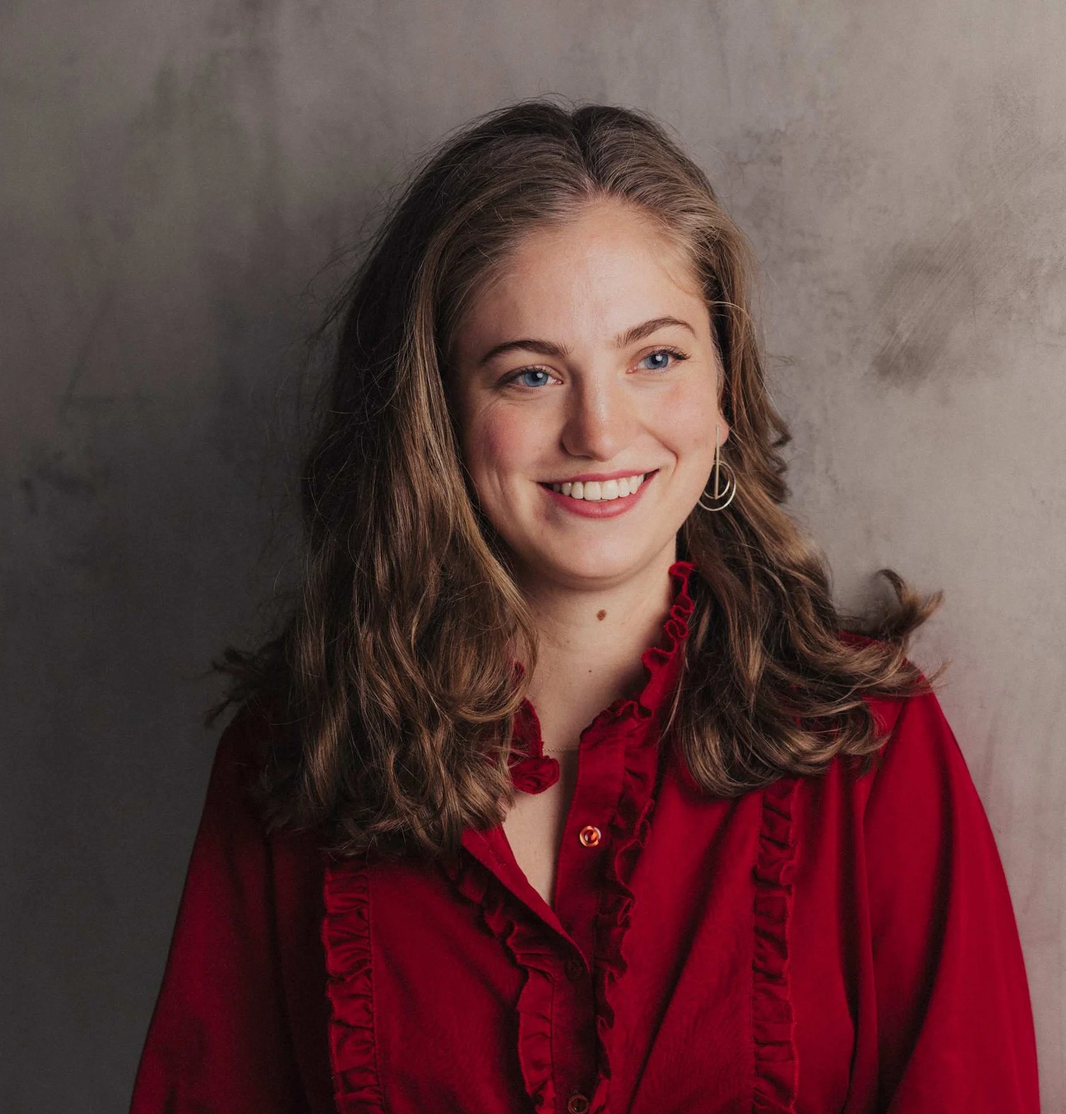
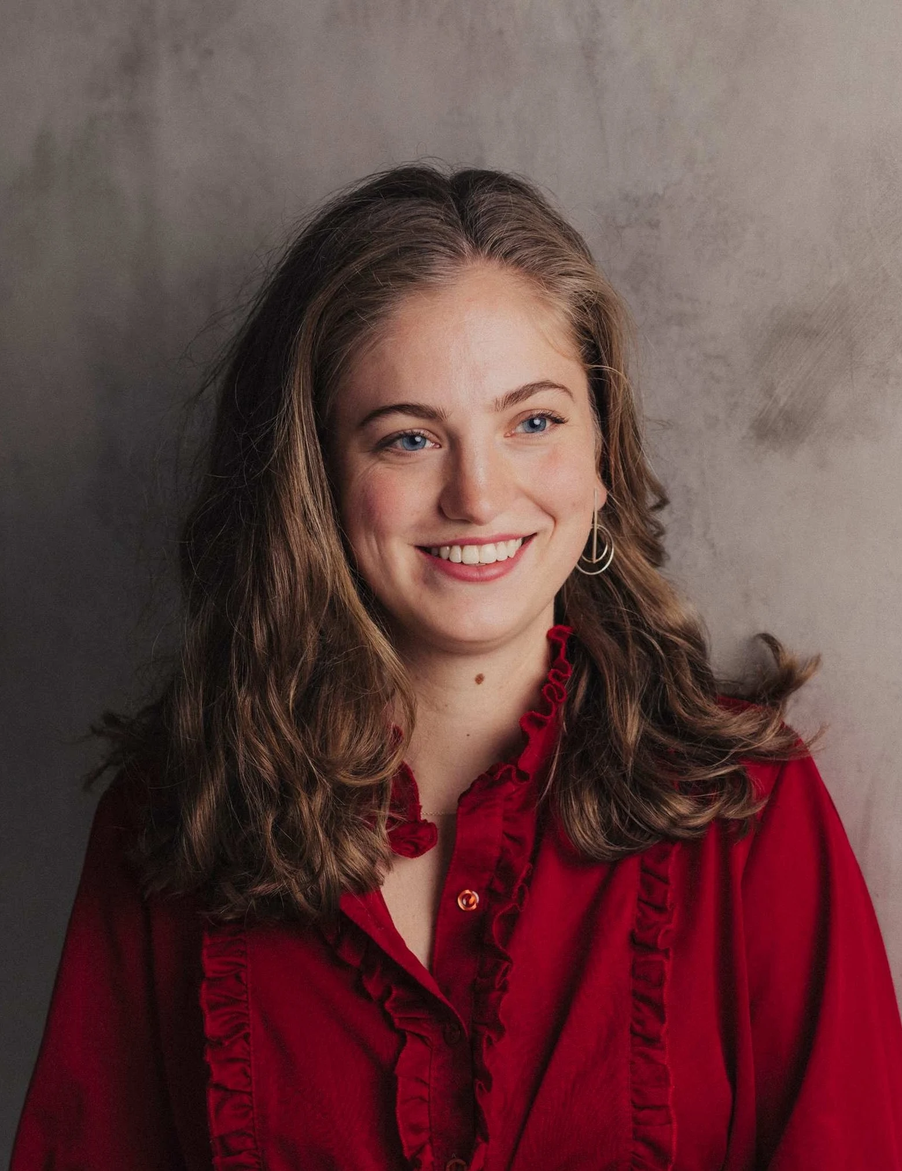
update

diff --git a/index.html b/index.html
@@ -34,7 +34,7 @@
 
 			<div id="wrapper" class="divided">
 
-					<section class="banner style1 orient-left content-align-left image-position-right fullscreen onload-image-fade-in onload-content-fade-right">
+					<section class="banner style5 content-align-left image-position-center fullscreen onload-image-fade-in onload-content-fade-right" id="home">
 						<div class="content">
 							<header>
 								<h1>Femke Hulsman</h1>
@@ -45,17 +45,41 @@
 								</p>
 							</header>
 
-							<p>Mezzosopraan Femke Hulsman rondde recent haar master af aan de <strong>Dutch National Opera Academy (2025)</strong>. Ze speelde daar afgelopen jaar in verschillende opera's, zoals Haydns <strong>La fedeltà premiata (Celia)</strong> met het Orkest van de 18e eeuw, en Ullmanns <strong>Der Kaiser von Atlantis (Der Trommler)</strong> met het Residentie Orkest. Eerder zong ze in Monteverdi's <strong>Il ritorno d'Ulisse in patria (Anfinomo)</strong>, Rossini's <strong>L'occasione fa il ladro (Ernestina)</strong> en Susa's <strong>Transformations (Singer #3)</strong>. Ook vertolkte ze de rol van <strong>Sir Taki</strong> en <strong>Heggenschaarhuzaar</strong> in <strong>Operetta Land</strong> van Steef de Jong bij De Nationale Opera. In 2024 zong ze de hoofdrol <strong>Estelle</strong> in de wereldpremière van de opera <strong>The Master's Voice</strong> van Peter Kooreman. </p>
-							<p>Naast operarepertoire zingt Femke graag liederen en oratoria. Ze heeft onder andere de volksliederen van Berio opgevoerd op het kamermuziekfestival van Tenerife, en de <strong>Liebeslieder Waltzes</strong> van Brahms gezongen in de kleine zaal van het Concertgebouw.</p>
-							<p>Femke heeft een bachelor klassiek zang aan het Conservatorium van Amsterdam afgerond en een bachelor psychologie aan de Universiteit van Utrecht. Femke volgt les bij Sasja Hunnego.</p>
-							
 							<div class="actions stacked">
-								<a href="#masterclass" class="button small wide smooth-scroll-middle">Highlights</a>
-								<a href="#videos" class="button small smooth-scroll-middle">Video's</a>
+								<a href="#bio" class="button small wide smooth-scroll-middle">Biografie</a>
+								<a href="#masterclass" class="button small smooth-scroll-middle">Video's</a>
 								<a href="#gallery" class="button small smooth-scroll-middle">Gallerij</a>
 								<a href="#agenda" class="button small smooth-scroll-middle">Agenda</a>
 								<a href="#contact" class="button small smooth-scroll-middle">Contact</a>
 							</div>
+
+						</div>
+						<div class="image">
+							<img src="images/fulls/protrait7.webp" alt=""/>
+						</div>
+					</section>
+					
+					<section class="banner style1 orient-left content-align-left image-position-right fullscreen onload-image-fade-in onload-content-fade-right" id="bio">
+						<div class="content">
+							<header>
+								<h1>Femke Hulsman</h1>
+								<p>Mezzosopraan&nbsp;
+									<a href="mailto:femkehulsman@hotmail.com" class="icon style1 fa-envelope"><span class="label">Email</span></a>
+									<a href="https://www.instagram.com/femke.hulsman/" class="icon brands style1 fa-instagram"><span class="label">Instagram</span></a>
+									<a href="https://www.facebook.com/profile.php?id=100009198058670" class="icon brands style1 fa-facebook-f"><span class="label">Facebook</span></a>
+								</p>
+							</header>
+
+							<div class="actions stacked">
+								<a href="#videos" class="button small wide smooth-scroll-middle">Video's</a>
+								<a href="#gallery" class="button small smooth-scroll-middle">Gallerij</a>
+								<a href="#agenda" class="button small smooth-scroll-middle">Agenda</a>
+								<a href="#contact" class="button small smooth-scroll-middle">Contact</a>
+							</div>
+
+							<p>Mezzosopraan Femke Hulsman rondde recent haar master af aan de <strong>Dutch National Opera Academy (2025)</strong>. Ze speelde daar afgelopen jaar in verschillende opera's, zoals Haydns <strong>La fedeltà premiata (Celia)</strong> met het Orkest van de 18e eeuw, en Ullmanns <strong>Der Kaiser von Atlantis (Der Trommler)</strong> met het Residentie Orkest. Eerder zong ze in Monteverdi's <strong>Il ritorno d'Ulisse in patria (Anfinomo)</strong>, Rossini's <strong>L'occasione fa il ladro (Ernestina)</strong> en Susa's <strong>Transformations (Singer #3)</strong>. Ook vertolkte ze de rol van <strong>Sir Taki</strong> en <strong>Heggenschaarhuzaar</strong> in <strong>Operetta Land</strong> van Steef de Jong bij De Nationale Opera. In 2024 zong ze de hoofdrol <strong>Estelle</strong> in de wereldpremière van de opera <strong>The Master's Voice</strong> van Peter Kooreman. </p>
+							<p>Naast operarepertoire zingt Femke graag liederen en oratoria. Ze heeft onder andere de volksliederen van Berio opgevoerd op het kamermuziekfestival van Tenerife, en de <strong>Liebeslieder Waltzes</strong> van Brahms gezongen in de kleine zaal van het Concertgebouw.</p>
+							<p>Femke heeft een bachelor klassiek zang aan het Conservatorium van Amsterdam afgerond en een bachelor psychologie aan de Universiteit van Utrecht. Femke volgt les bij Sasja Hunnego.</p>
 
 						</div>
 						<div class="image">
@@ -65,11 +89,10 @@
 
 					<section class="spotlight style1 orient-right content-align-left image-position-center onscroll-image-fade-in" id="masterclass">
 						<div class="content">
-							<h2>Masterclass Thomas Oliemans &amp; Femke Hulsman &ndash; J'ai Deux Amants (Messager) | Podium Klassiek</h2>
-							<!-- <p>Lorem ipsum dolor sit amet, consectetur adipiscing elit. Morbi id ante sed ex pharetra lacinia sit amet vel massa. Donec facilisis laoreet nulla eu bibendum. Donec ut ex risus. Fusce lorem lectus, pharetra pretium massa et, hendrerit vestibulum odio lorem ipsum dolor sit amet.</p> -->
-							<ul class="actions stacked">
-								<li><a href="#flammenauge" class="button">Volgende Video</a></li>
-							</ul>
+							<h3>Masterclass Thomas Oliemans &amp; Femke Hulsman &ndash; J'ai Deux Amants (Messager) | Podium Klassiek</h3>
+							<div class="actions stacked">
+								<a href="#flammenauge" class="button small wide smooth-scroll-middle">Volgende Video</a>
+							</div>
 						</div>
 						<div class="image">
 							<iframe width="100%" height="100%" 
@@ -83,11 +106,10 @@
 
 					<section class="spotlight style1 orient-left content-align-left image-position-center onscroll-image-fade-in" id="flammenauge">
 						<div class="content">
-							<h2>Dutch National Opera Academy &ndash; Flammenauge, Dunkles Haar (Johannes Brahms) | Podium Klassiek</h2>
-							<!-- <p>Lorem ipsum dolor sit amet, consectetur adipiscing elit. Morbi id ante sed ex pharetra lacinia sit amet vel massa. Donec facilisis laoreet nulla eu bibendum. Donec ut ex risus. Fusce lorem lectus, pharetra pretium massa et, hendrerit vestibulum odio lorem ipsum dolor sit amet.</p> -->
-							<ul class="actions stacked">
-								<li><a href="#mastersvoice" class="button">Volgende Video</a></li>
-							</ul>
+							<h3>Dutch National Opera Academy &ndash; Flammenauge, Dunkles Haar (Johannes Brahms) | Podium Klassiek</h3>
+							<div class="actions stacked">
+								<a href="#mastersvoice" class="button small wide smooth-scroll-middle">Volgende Video</a>
+							</div>
 						</div>
 						<div class="image">
 							<iframe width="100%" height="100%" 
@@ -101,11 +123,10 @@
 
 					<section class="spotlight style1 orient-right content-align-left image-position-center onscroll-image-fade-in"  id="mastersvoice">
 						<div class="content">
-							<h2>Peter Kooreman &amp; Femke Hulsman &ndash; Scene 2, Act 1 | The Master's Voice</h2>
-							<!-- <p>Lorem ipsum dolor sit amet, consectetur adipiscing elit. Morbi id ante sed ex pharetra lacinia sit amet vel massa. Donec facilisis laoreet nulla eu bibendum. Donec ut ex risus. Fusce lorem lectus, pharetra pretium massa et, hendrerit vestibulum odio lorem ipsum dolor sit amet.</p> -->
-							<ul class="actions stacked">
-								<li><a href="#videos" class="button">Alle Video's</a></li>
-							</ul>
+							<h3>Peter Kooreman &amp; Femke Hulsman &ndash; Scene 2, Act 1 | The Master's Voice</h3>
+							<div class="actions stacked">
+								<a href="#derkaiser" class="button small wide smooth-scroll-middle">Volgende Video</a>
+							</div>
 						</div>
 						<div class="image">
 							<iframe width="100%" height="100%" 
@@ -116,13 +137,88 @@
 							</iframe>
 						</div>
 					</section>
-	
+
+					<section class="spotlight style1 orient-left content-align-left image-position-center onscroll-image-fade-in"  id="derkaiser">
+						<div class="content">
+							<h3>Der Kaiser von Atlantis (Ullmann) &ndash; Dutch National Opera Academy &amp; Residentie Orkest</h3>
+							<div class="actions stacked">
+								<a href="#aeolus" class="button small wide smooth-scroll-middle">Volgende Video</a>
+							</div>
+						</div>
+						<div class="image">
+							<iframe width="100%" height="100%" 
+								src="https://www.youtube.com/embed/K-p9bikge-I?si=MOkqZ48CkXs2JLrG" 
+								title="YouTube video player" frameborder="0" 
+								allow="accelerometer; autoplay; clipboard-write; encrypted-media; gyroscope; picture-in-picture; web-share" 
+								referrerpolicy="strict-origin-when-cross-origin" allowfullscreen>
+							</iframe>
+						</div>
+					</section>
+
+					<section class="spotlight style1 orient-right content-align-left image-position-center onscroll-image-fade-in"  id="aeolus">
+						<div class="content">
+							<h3>Muziekgebouw aan 't IJ &amp; New Music Now &ndash; Real-time composition (Aeolus Vocal Trio)</h3>
+							<div class="actions stacked">
+								<a href="#promotheus" class="button small wide smooth-scroll-middle">Volgende Video</a>
+							</div>
+						</div>
+						<div class="image">
+							<iframe width="100%" height="100%" 
+							src="https://www.youtube.com/embed/nswuDas060c?si=zchRCoktM15XQT8y" 
+							title="YouTube video player" frameborder="0" 
+							allow="accelerometer; autoplay; clipboard-write; encrypted-media; gyroscope; picture-in-picture; web-share" 
+							referrerpolicy="strict-origin-when-cross-origin" allowfullscreen>
+						</iframe>
+						</div>
+					</section>
+
+					<section class="spotlight style1 orient-left content-align-left image-position-center onscroll-image-fade-in"  id="promotheus">
+						<div class="content">
+							<h3>Max Bruins &amp; Femke Hulsman &ndash; Prometheus</h3>
+							<div class="actions stacked">
+								<a href="#azerbaijan" class="button small wide smooth-scroll-middle">Volgende Video</a>
+							</div>
+						</div>
+						<div class="image">
+							<iframe width="100%" height="100%" 
+								src="https://www.youtube.com/embed/16VTx62MgEM?si=y-qjj7K3cHOGPidM" 
+								title="YouTube video player" frameborder="0" 
+								allow="accelerometer; autoplay; clipboard-write; encrypted-media; gyroscope; picture-in-picture; web-share" 
+								referrerpolicy="strict-origin-when-cross-origin" allowfullscreen>
+							</iframe>
+						</div>
+					</section>
+
+					<section class="spotlight style1 orient-right content-align-left image-position-center onscroll-image-fade-in"  id="azerbaijan">
+						<div class="content">
+							<h3>Berio &ndash; Azerbaijan Love Song</h3>
+							<div class="actions stacked">
+								<a href="#gallery" class="button small smooth-scroll-middle">Gallerij</a>
+							</div>
+						</div>
+						<div class="image">
+							<iframe width="100%" height="100%" 
+								src="https://www.youtube.com/embed/3k9ZUr2_FYI?si=sztI5hKP_3aDsK7H" 
+								title="YouTube video player" frameborder="0" 
+								allow="accelerometer; autoplay; clipboard-write; encrypted-media; gyroscope; picture-in-picture; web-share" 
+								referrerpolicy="strict-origin-when-cross-origin" allowfullscreen>
+							</iframe>
+						</div>
+					</section>
+<!-- 	
 					<section class="wrapper style1 align-center" id="videos">
 						<div class="inner">
 							<h2>Video's</h2>
 						</div>
 
-						<!-- Video's -->
+						<div class="actions stacked">
+							<a href="#bio" class="button small smooth-scroll-middle">Biografie</a>
+							<a href="#masterclass" class="button small smooth-scroll-middle">Highlights</a>
+							<a href="#gallery" class="button small smooth-scroll-middle">Gallerij</a>
+							<a href="#agenda" class="button small smooth-scroll-middle">Agenda</a>
+							<a href="#contact" class="button small smooth-scroll-middle">Contact</a>
+						</div>
+
 						<div class="gallery style2 medium lightbox onscroll-fade-in">
 							<article>
 								<div class="image">
@@ -135,7 +231,6 @@
 								</div>
 								<div class="caption">
 									<h3>Masterclass Thomas Oliemans &amp; Femke Hulsman &ndash; J'ai Deux Amants (Messager) | Podium Klassiek</h3>
-									<!-- <p>Description.</p> -->
 								</div>
 							</article>
 							<article>
@@ -204,11 +299,18 @@
 								</div>
 							</article>
 						</div>
-					</section>
+					</section> -->
 
 					<section class="wrapper style1 align-center" id="gallery">
 						<div class="inner">
 							<h2>Gallerij</h2>
+						</div>
+
+						<div class="actions stacked">
+							<a href="#bio" class="button small smooth-scroll-middle">Biografie</a>
+							<a href="#videos" class="button small smooth-scroll-middle">Video's</a>
+							<a href="#agenda" class="button small smooth-scroll-middle">Agenda</a>
+							<a href="#contact" class="button small smooth-scroll-middle">Contact</a>
 						</div>
 
 						<!-- Gallery -->
@@ -248,6 +350,22 @@
 								<article>
 									<a href="images/fulls/gallery6.webp" class="image">
 										<img src="images/thumbs/gallery6.webp" alt=""/>
+									</a>
+								</article>
+								
+								<article>
+									<a href="images/fulls/portrait1.webp" class="image">
+										<img src="images/thumbs/portrait1.webp" alt=""/>
+									</a>
+								</article>
+								<article>
+									<a href="images/fulls/gallery28.webp" class="image">
+										<img src="images/thumbs/gallery28.webp" alt=""/>
+									</a>
+								</article>
+								<article>
+									<a href="images/fulls/gallery29.webp" class="image">
+										<img src="images/thumbs/gallery29.webp" alt=""/>
 									</a>
 								</article>
 								<article>
@@ -351,21 +469,6 @@
 									</a>
 								</article>
 								<article>
-									<a href="images/fulls/portrait1.webp" class="image">
-										<img src="images/thumbs/portrait1.webp" alt=""/>
-									</a>
-								</article>
-								<article>
-									<a href="images/fulls/gallery28.webp" class="image">
-										<img src="images/thumbs/gallery28.webp" alt=""/>
-									</a>
-								</article>
-								<article>
-									<a href="images/fulls/gallery29.webp" class="image">
-										<img src="images/thumbs/gallery29.webp" alt=""/>
-									</a>
-								</article>
-								<article>
 									<a href="images/fulls/gallery27.webp" class="image">
 										<img src="images/thumbs/gallery27.webp" alt=""/>
 									</a>
@@ -412,6 +515,14 @@
 					<section class="wrapper style2 align-center" id="agenda">
 						<div class="inner">
 							<h2>Agenda</h2>
+
+							<div class="actions stacked">
+								<a href="#bio" class="button small smooth-scroll-middle">Biografie</a>
+								<a href="#videos" class="button small smooth-scroll-middle">Video's</a>
+								<a href="#gallery" class="button small smooth-scroll-middle">Gallerij</a>
+								<a href="#contact" class="button small smooth-scroll-middle">Contact</a>
+							</div>
+
 							<div class="items style1 medium onscroll-fade-in">
 								<section>
 									<!-- <span class="icon solid style2 major fa-save"></span> -->
@@ -613,6 +724,13 @@
 					<section class="wrapper style1 align-center" id="contact">
 						<div class="inner medium">
 							<h2>Contact</h2>
+							<div class="actions stacked">
+								<a href="#bio" class="button small smooth-scroll-middle">Biografie</a>
+								<a href="#masterclass" class="button small smooth-scroll-middle">Highlights</a>
+								<a href="#videos" class="button small smooth-scroll-middle">Video's</a>
+								<a href="#gallery" class="button small smooth-scroll-middle">Gallerij</a>
+								<a href="#agenda" class="button small smooth-scroll-middle">Agenda</a>
+							</div>
 							<p>Wilt u Femke boeken of heeft u een vraag? Stuur een bericht!</p>
 							<form method="POST" action="https://formspree.io/f/meorwekr">
 								<div class="fields">
